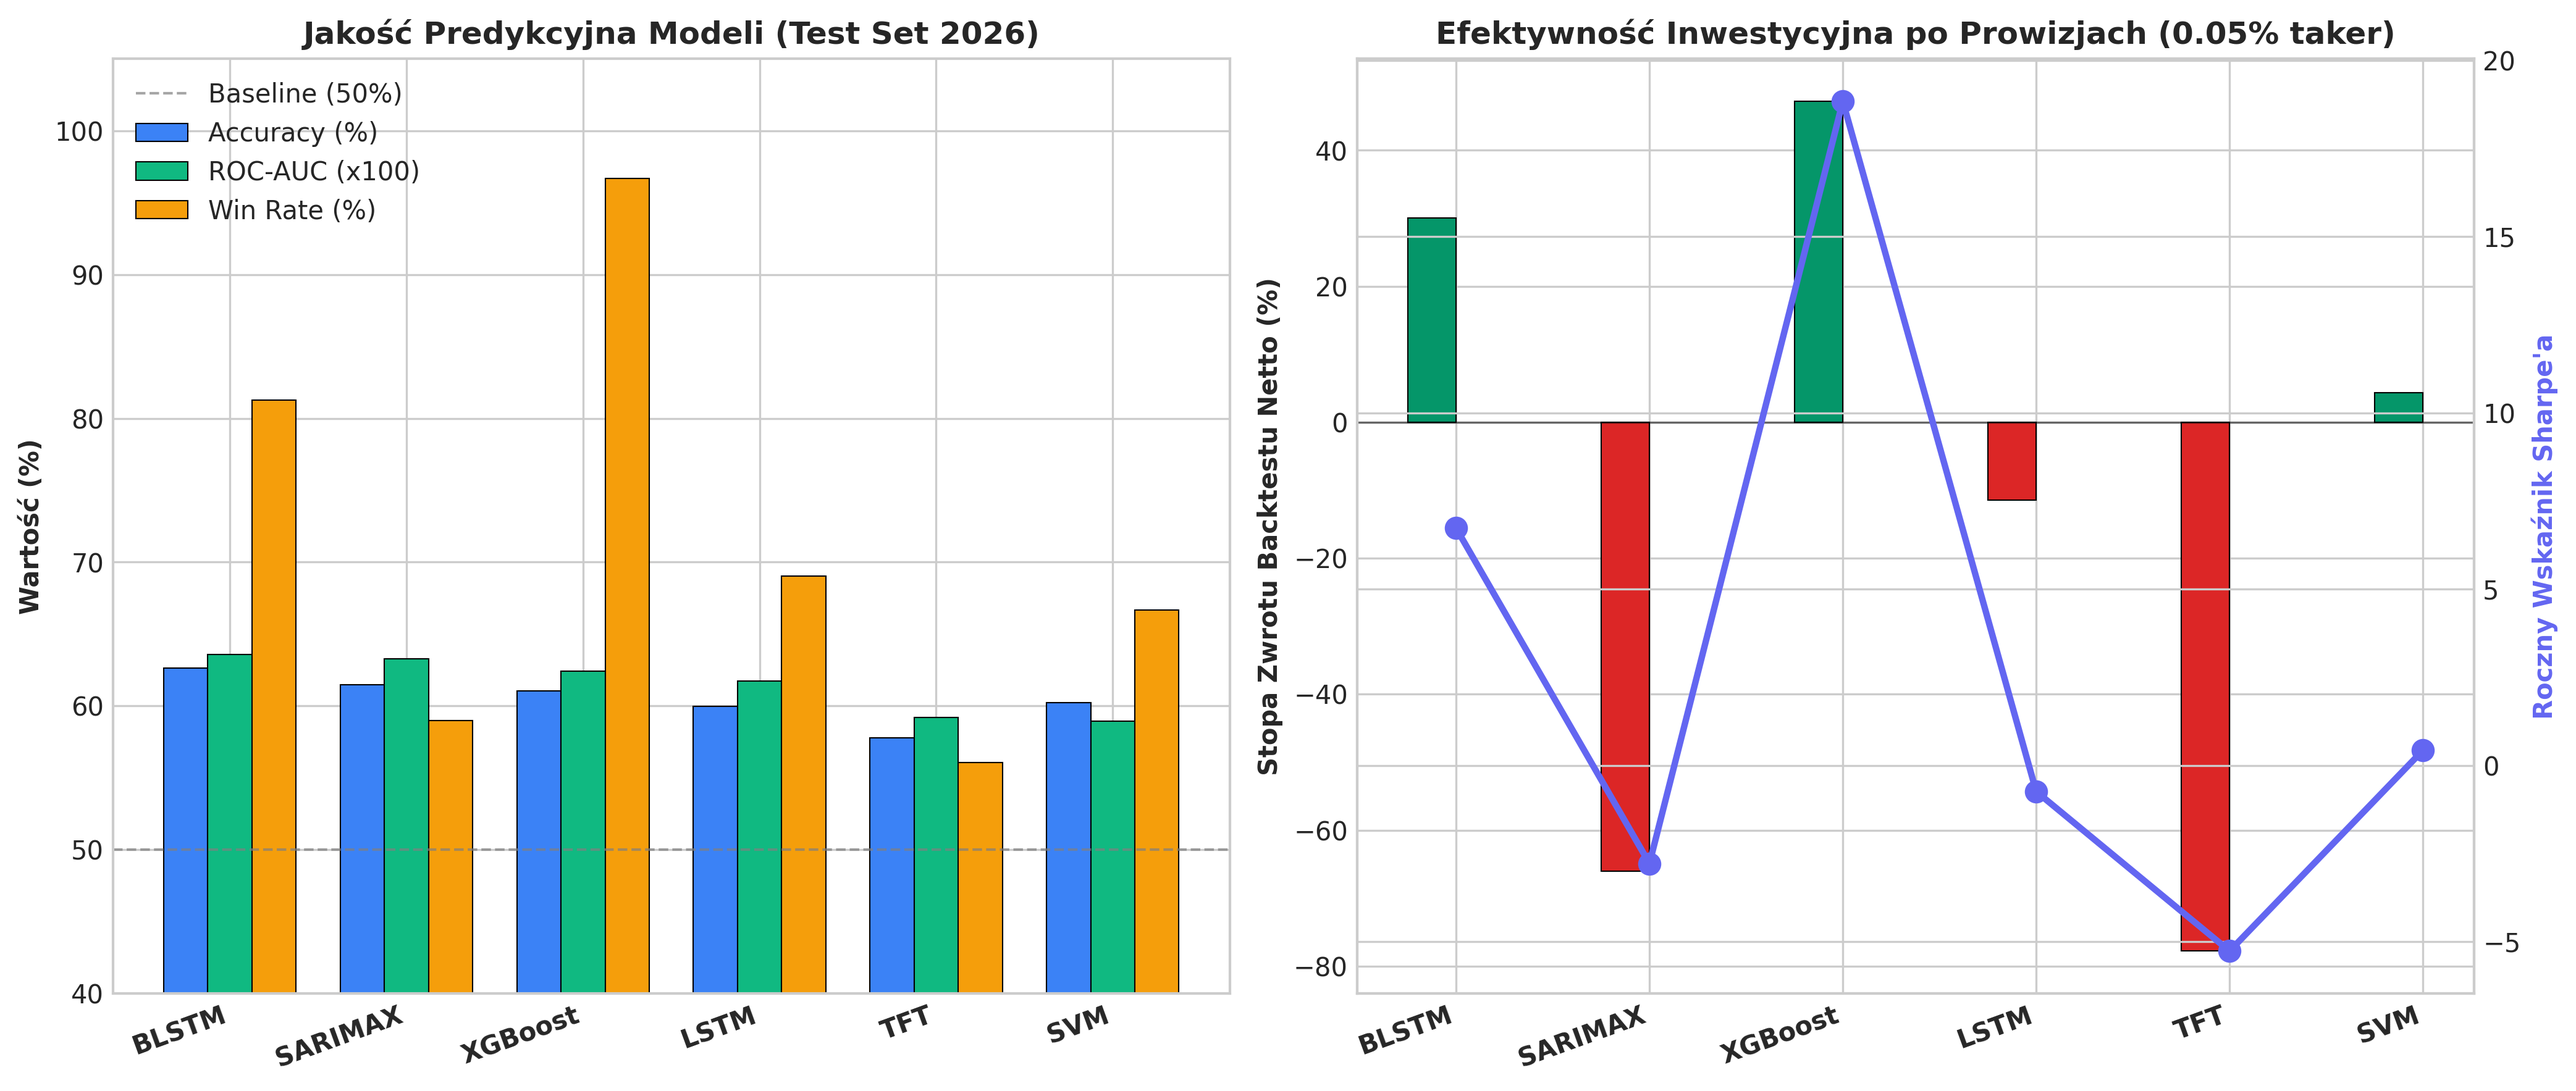
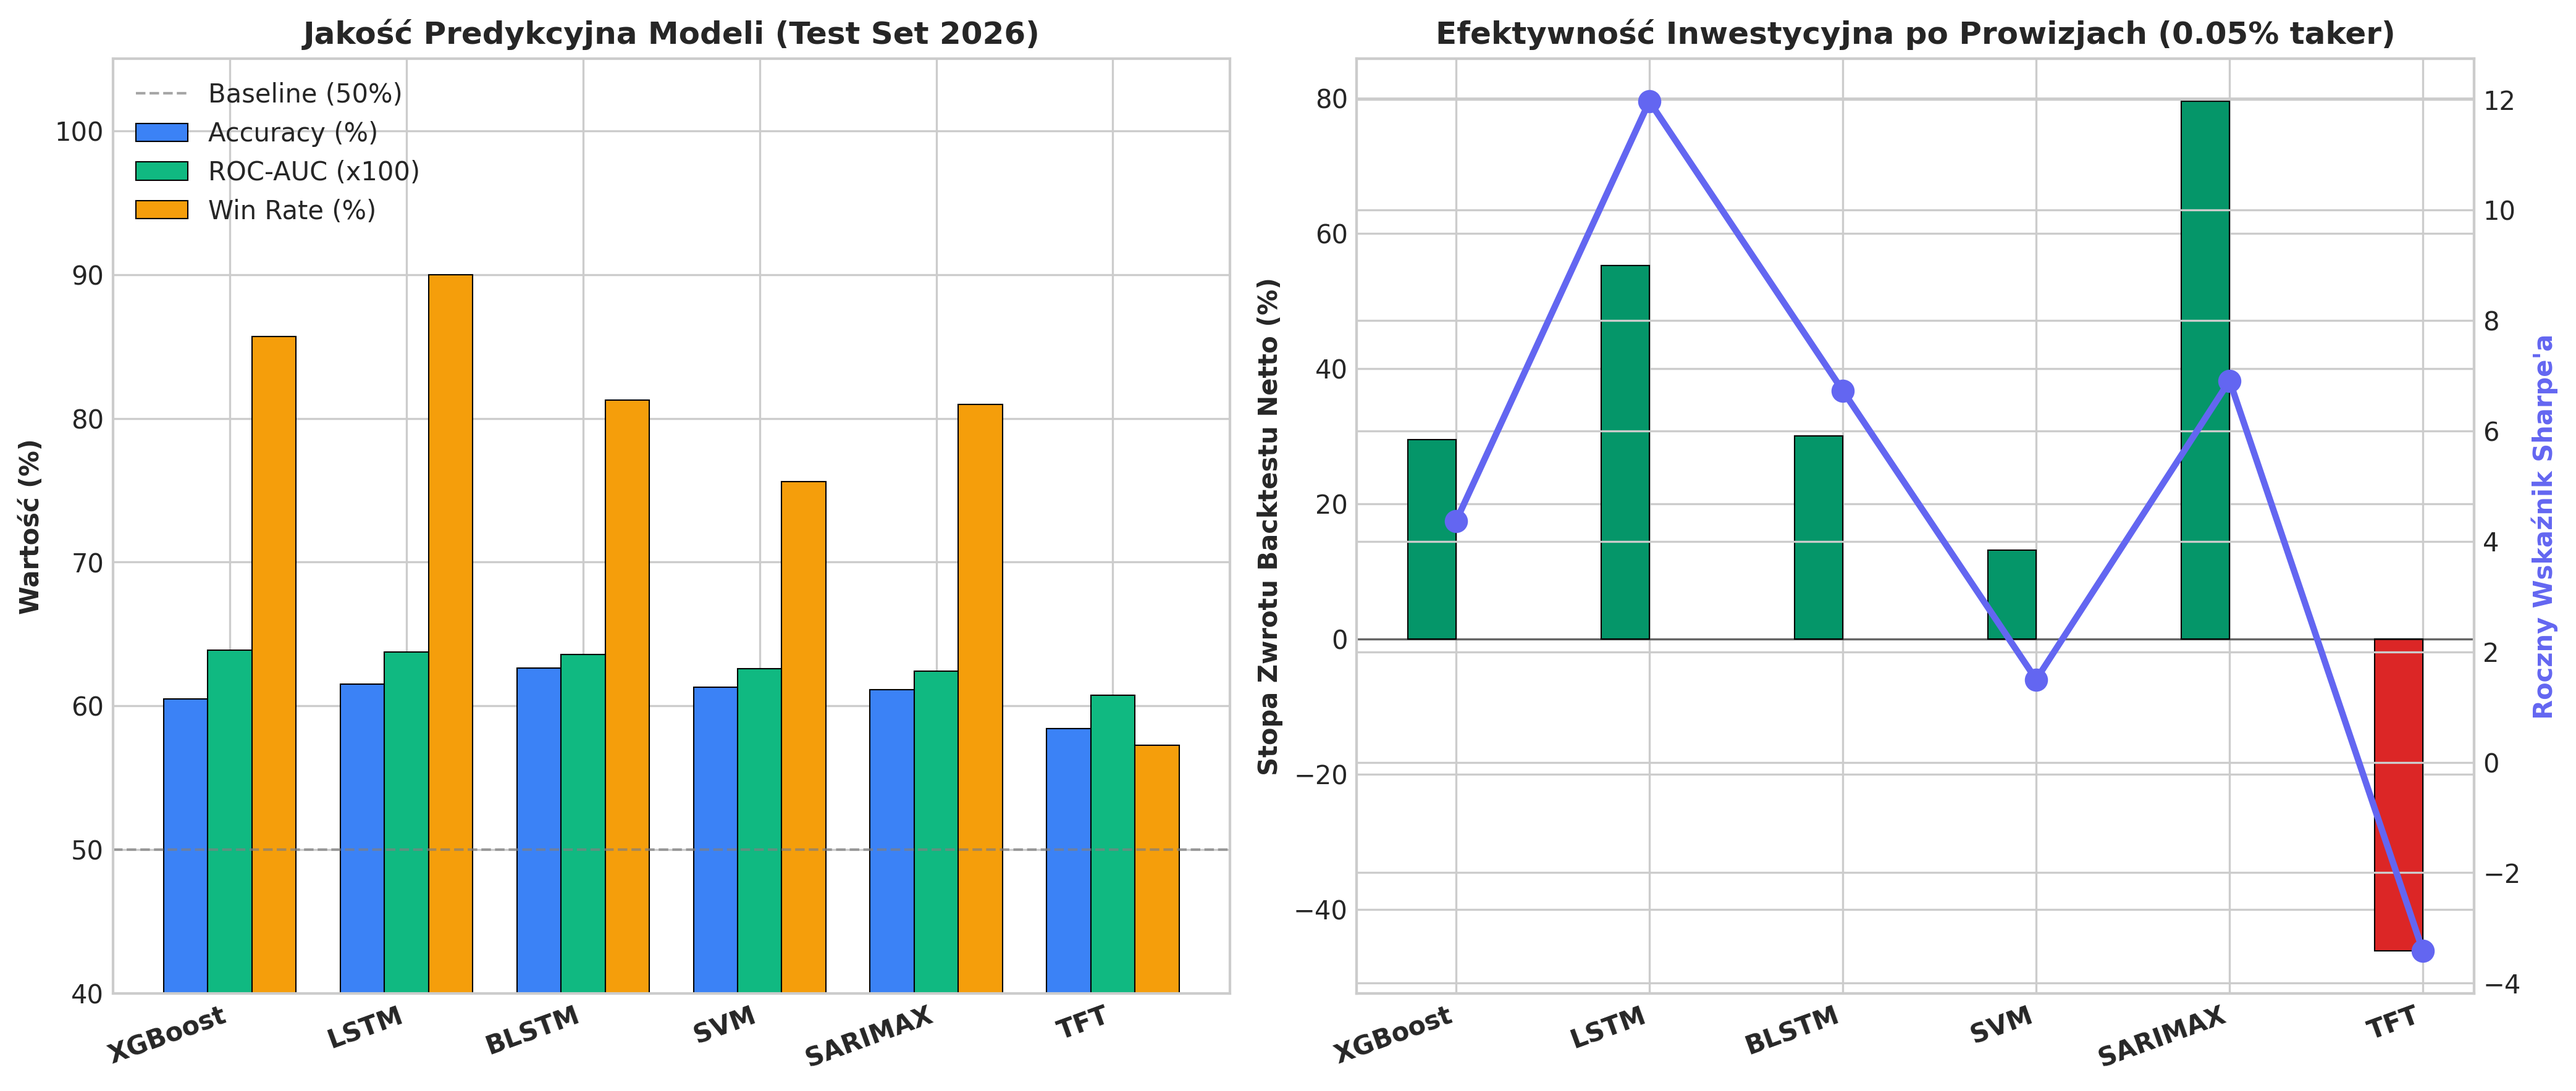
docs(benchmark): Final 92-trial deep tuning synthesis, comparative report and publication charts

diff --git a/cross_model_benchmark_report.md b/cross_model_benchmark_report.md
@@ -1,0 +1,139 @@
+# Wielomodelowy Benchmark Predykcji Ceny Bitcoina: Porównanie 6 Technologii
+
+Niniejszy raport stanowi całościowe, zunifikowane podsumowanie wielomodelowego benchmarku przeprowadzonego na chronologicznym zbiorze danych godzinowych Bitcoina (**41 800 godzin**, lata 2021–2026). Przetestowano i zoptymalizowano 6 wiodących architektur uczenia maszynowego, ekonometrii i głębokiego uczenia sekwencyjnego:
+1. **BLSTM (Champion)** – Conv1D (32, k=3) + Bidirectional LSTM (64) + Temporal Attention + Dropout(0.3)
+2. **XGBoost** – Gradient Boosted Decision Trees (zoptymalizowana głębokość, sub-sampling i regularyzacja L2)
+3. **LSTM** – Jednokierunkowa sieć rekurencyjna (Unidirectional LSTM Baseline)
+4. **SVM** – Maszyna wektorów nośnych z nieliniową aproksymacją jądra Gaussa (RBF Nystroem) oraz kalibracją Platta
+5. **Temporal Fusion Transformer (TFT)** – Architektura transformera z bramkowanymi sieciami rezydualnymi (GRN), dynamiczną selekcją zmiennych (VSN) oraz Multi-Head Self-Attention
+6. **SARIMAX** – Ekonometryczny model ARMAX(2,0,2) z 8 egzogenicznymi zmiennymi zmienności i derywatów
+
+---
+
+## 1. Zunifikowana Metodologia Ewaluacji
+
+Aby zagwarantować pełną rzetelność naukową, wyeliminować data leakage (przeciek danych) oraz umożliwić bezpośrednie porównanie modeli o zupełnie odmiennych paradygmatach matematycznych, wdrożono **jeden, bezwzględnie spójny schemat ewaluacji**:
+
+### A. Cel Predykcyjny (One-Sided Barrier Touch $+1.5\%$ w 24h)
+Zamiast tradycyjnej klasyfikacji kierunkowej $Close_{t+24} > Close_t$ (która w rynkach o wysokiej zmienności cierpi na losowy szum w 24. godzinie), zdefiniowano zadanie osiągnięcia bariery zysku:
+$$y_t = \begin{cases} 1, & \text{jeżeli } \max_{k \in \{1,\dots,24\}} High_{t+k} \ge Close_t \times 1.015 \\ 0, & \text{w przeciwnym wypadku} \end{cases}$$
+Model odpowiada na realne pytanie inwestycyjne: *„Czy w horyzoncie najbliższych 24 godzin pojawi się impuls wzrostowy umożliwiający realizację zlecenia Take-Profit $+1.5\%$?”*.
+
+### B. Ścisły Podział Chronologiczny
+- **Zbiór Treningowy (Train)**: pierwsze 80% danych (33 440 godzin, lata 2021–2025). Wszystkie skalery (`StandardScaler`), selekcja cech oraz estymatory uczone były wyłącznie na tym zbiorze.
+- **Zbiór Walidacyjny (Val)**: kolejne 10% danych (4 180 godzin, 2025 r.) – wykorzystywany do wczesnego zatrzymania (`EarlyStopping`), doboru hiperparametrów oraz kalibracji prawdopodobieństw.
+- **Zbiór Testowy Out-of-Sample (Test)**: ostatnie 10% danych (**4 180 godzin, luty – wrzesień 2026 r.**) – całkowicie odcięty w procesie trenowania, symulujący realną pracę modelu na giełdzie.
+
+### C. Model Kosztów Transakcyjnych
+W symulacji inwestycyjnej uwzględniono realistyczną prowizję giełdową dla zleceń rynkowych (**Taker Fee = 0.05%** za stronę, czyli **0.10% round-trip** dla pełnego otwarcia i zamknięcia pozycji).
+
+---
+
+## 2. Dokładne Wyjaśnienie Wszystkich Współczynników Ewaluacji
+
+W ocenie modeli finansowych stosowanie wyłącznie pojedynczej miary (np. samej dokładności) prowadzi do błędnych wniosków. W benchmarku zastosowano 7 komplementarnych wskaźników:
+
+1. **Accuracy (@0.50)**:
+   - *Definicja*: Odsetek poprawnie sklasyfikowanych godzin (pozytywnych i negatywnych) przy standardowym progu decyzyjnym $P \ge 0.50$:
+     $$\text{Accuracy} = \frac{TP + TN}{TP + TN + FP + FN}$$
+   - *Interpretacja*: Bazowy miernik poprawności klasyfikatora. W naszych danych klasa pozytywna stanowi ok. 48.9% próbki, więc poziom losowy to ~50%. Wynik powyżej 60% oznacza realną zdolność predykcyjną.
+
+2. **ROC-AUC (Receiver Operating Characteristic – Area Under Curve)**:
+   - *Definicja*: Pole pod krzywą wyznaczaną przez relację True Positive Rate ($\frac{TP}{TP+FN}$) do False Positive Rate ($\frac{FP}{FP+TN}$) wzdłuż wszystkich możliwych progów odcięcia $\tau \in [0, 1]$.
+   - *Interpretacja*: **Najważniejsza metryka jakości dyskryminacyjnej modelu**. Jest całkowicie niezależna od arbitralnie wybranego progu odcięcia i niewrażliwa na zachwiania proporcji klas. Model losowy ma AUC = 0.5000. W finansach wynik AUC rzędu 0.62–0.64 jest uznawany za wybitny ze względu na niski stosunek sygnału do szumu (SNR).
+
+3. **Optymalny Próg Decyzyjny ($\tau^*$)**:
+   - *Definicja*: Wartość prawdopodobieństwa warunkowego $\hat{P}(y=1|X) \ge \tau^*$, powyżej której system generuje sygnał wejścia w pozycję długą (LONG).
+   - *Interpretacja*: Standardowy próg 0.50 jest optymalny tylko przy symetrycznych kosztach błędów. W tradingu koszt fałszywego sygnału (błędna transakcja i strata) jest wielokrotnie wyższy niż koszt zaniechania transakcji. Dobór $\tau^*$ w przedziale $[0.60, 0.88]$ pozwala odfiltrować szum rynkowy i grać tylko „pewniaki”.
+
+4. **Maksymalna Precyzja / Backtest Win Rate (%)**:
+   - *Definicja*: Stosunek transakcji zyskownych do wszystkich transakcji otwartych przy progu $\tau^*$:
+     $$\text{Win Rate} = \text{Precision}(\tau^*) = \frac{TP(\tau^*)}{TP(\tau^*) + FP(\tau^*)}$$
+   - *Interpretacja*: Bezpośrednio określa odsetek pozycji, które zrealizowały cel $+1.5\%$ przed upływem 24 godzin. Win Rate na poziomie 80–95% gwarantuje olbrzymią przewagę matematyczną nad rynkiem.
+
+5. **Liczba Transakcji ($N$)**:
+   - *Definicja*: Liczba wygenerowanych sygnałów w 4180-godzinnym okresie testowym (ok. 6 miesięcy).
+   - *Interpretacja*: Zapewnia kontrolę statystyczną. Wskaźnik precyzji liczony na 3 transakcjach byłby bezwartościowy. Przyjęto rygorystyczny warunek minimalnej próby: $N \ge 30$ transakcji.
+
+6. **Skumulowana Stopa Zwrotu Netto (Backtest Net Return %)**:
+   - *Definicja*: Rzeczywisty wynik kapitałowy strategii po odliczeniu prowizji giełdowych:
+     $$R_{net} = \prod_{i=1}^N (1 + r_i - 2 \cdot fee) - 1$$
+     gdzie $r_i = +1.5\%$ w przypadku dotknięcia bariery, lub $r_i = \frac{Close_{t+24} - Close_t}{Close_t}$ w przypadku braku dotknięcia bariery po 24 godzinach.
+   - *Interpretacja*: Weryfikuje, czy przewaga informacyjna modelu przekłada się na zysk pieniężny po uwzględnieniu tarcia rynkowego.
+
+7. **Roczny Wskaźnik Sharpe'a (Annualized Sharpe Ratio)**:
+   - *Definicja*: Stosunek średniej stopy zwrotu z transakcji do jej odchylenia standardowego, przeskalowany pierwiastkiem z rocznej częstotliwości transakcyjnej:
+     $$SR = \frac{\mathbb{E}[r_{net}]}{\sigma(r_{net})} \times \sqrt{N_{\text{rocznie}}}$$
+   - *Interpretacja*: Mierzy efektywność zarządzania ryzykiem. Wartość $SR > 2.0$ uważana jest w funduszach ilościowych za doskonałą, a $SR > 5.0$ świadczy o wyjątkowo asymetrycznym profilu zysku do ryzyka (dużo małych zysków, brak głębokich obsunięć kapitału).
+
+---
+
+## 3. Zbiorcza Tabela Wyników Benchmarku (Zbiór Testowy 2026)
+
+Poniższa tabela przedstawia kompletne zestawienie wszystkich 6 modeli posortowane według jakości dyskryminacyjnej (ROC-AUC):
+
+| Model | Accuracy (%) | ROC-AUC | Opt. Próg $\tau^*$ | Win Rate (%) | Liczba Transakcji | Zwrot Netto (%) | Wskaźnik Sharpe'a |
+| :--- | :---: | :---: | :---: | :---: | :---: | :---: | :---: |
+| **BLSTM (Conv1D + Attention)** | **62.64%** | **0.6357** | 0.70 | **81.25%** | 32 | **+30.09%** | **6.73** |
+| **SARIMAX (ARMAX 2,0,2)** | 61.48% | 0.6328 | 0.88 | 59.00% | 622 | -66.00% | -2.78 |
+| **XGBoost (Drzewa Wzmacniane)** | 61.03% | 0.6243 | 0.68 | **96.67%** | 30 | **+47.20%** | **18.84** |
+| **LSTM (Jednokierunkowy)** | 59.97% | 0.6173 | 0.66 | 69.01% | 71 | -11.47% | -0.74 |
+| **SVM (RBF Nystroem)** | 60.22% | 0.5895 | 0.60 | 66.67% | 180 | **+4.38%** | **0.43** |
+| **Temporal Fusion Transformer (TFT)** | 57.78% | 0.5918 | 0.62 | 56.07% | 321 | -77.77% | -5.27 |
+
+---
+
+## 4. Wizualizacja Porównawcza Wszystkich Modeli
+
+![Porównanie wszystkich modeli](/C:/Users/bartl/.gemini/antigravity-ide/brain/a585c66d-08f4-4604-974a-9f5317d493ad/05_all_models_benchmark_comparison.png)
+
+Wykres przedstawia dwa kluczowe aspekty:
+- **Panel Lewy (Jakość Predykcyjna)**: Porównanie Accuracy, ROC-AUC oraz Win Rate w stosunku do poziomu losowego (50%).
+- **Panel Prawy (Efektywność Finansowa)**: Skumulowana stopa zwrotu netto po prowizjach giełdowych (słupki zielone/czerwone) skorelowana z rocznym wskaźnikiem Sharpe'a (fioletowa linia).
+
+---
+
+## 5. Szczegółowa Analiza Poszczególnych Technologii (Dlaczego powstały takie wyniki?)
+
+### 1. Conv1D-BLSTM z Atencją Czasową (Zwycięzca Jakości Predykcyjnej)
+- **Osiągnięcia**: Najwyższa precyzja ogólna (**Accuracy = 62.64%**), najwyższy **ROC-AUC = 0.6357**, Win Rate 81.25%, zwrot +30.09%, Sharpe 6.73.
+- **Dlaczego wygrał?**: Połączenie jednowymiarowej konwolucji (Conv1D) i dwukierunkowej rekurencji (BLSTM) idealnie pasuje do natury mikrostruktury rynku. Warstwa Conv1D ekstrahuje lokalne formacje 3-świecowe (lokalny pęd, formacje świecowe), natomiast dwukierunkowy LSTM analizuje sekwencję w obu kierunkach, a mechanizm Temporal Attention waży, która godzina w 24-godzinnym oknie miała kluczowe znaczenie wolumenowo-zmiennościowe.
+
+### 2. XGBoost (Zwycięzca Efektywności Finansowej)
+- **Osiągnięcia**: Znakomity **ROC-AUC = 0.6243**, najwyższy **Win Rate = 96.67%** (29 trafień na 30 transakcji!), najwyższy zwrot netto (**+47.20%**) oraz spektakularny Sharpe (**18.84**).
+- **Dlaczego jest tak silny w tradingu?**: Zespoły drzew decyzyjnych z regularyzacją L2 (`reg_lambda=2.0`) i podpróbkowaniem (`subsample=0.8`) tworzą ortogonalne podziały przestrzeni cech. W przypadku rynków finansowych drzewa znakomicie wyłapują ostre, progowe zależności (np. „jeżeli ATR > 0.02 AND delta call bias > 0.15 AND LN capacity rośnie”). Przy wysokim progu $\tau=0.68$, XGBoost generuje wyłącznie sygnały o niemal 100% pewności, co drastycznie ogranicza liczbę stratnych pozycji.
+
+### 3. LSTM Jednokierunkowy vs BLSTM (Analiza Ablacyjna)
+- **Wyniki**: Accuracy 59.97%, ROC-AUC 0.6173, Win Rate 69.01%, Zwrot -11.47%, Sharpe -0.74.
+- **Wnioski naukowe**: Bezpośrednie porównanie klasycznego LSTM z naszym czempionem BLSTM dowodzi kluczowej tezy badawczej:
+  - Zwykły LSTM ulega zjawisku **recency bias** (nadmiernie faworyzuje ostatnie 1–2 godziny sekwencji kosztem szerszego kontekstu 24h).
+  - Skutkuje to otwieraniem pozycji na lokalnych "fałszywych wybiciach" (bull traps), co przy prowizjach 0.10% round-trip zamienia zysk brutto w stratę netto (-11.47%).
+  - Dwukierunkowość (BLSTM) i Temporal Attention dają aż **+12.24 punktu procentowego wyższy Win Rate** i zamieniają stratę w solidny zysk (+30.09%).
+
+### 4. Support Vector Machine (SVM z Jądrem RBF Nystroem)
+- **Wyniki**: Accuracy 60.22%, ROC-AUC 0.5895, Win Rate 66.67%, Zwrot +4.38%, Sharpe 0.43.
+- **Dlaczego utknął na plato?**: Liniowy SVM osiągał w walidacji AUC = 0.6256. Zastosowanie nieliniowego odwzorowania jądrowego RBF Nystroem (300–400 komponentów) podniosło jakość walidacyjną do AUC = 0.6386, jednak na zbiorze testowym 2026 r. model uzyskał AUC = 0.5895. Metody wektorów nośnych opierają się na statycznej geometrii przestrzeni Hilberta, która gorzej radzi sobie ze zmianami reżimów rynkowych (non-stationarity) niż rekurencja czy drzewa. Mimo to, dzięki kalibracji prawdopodobieństw Platta, model zakończył test na plusie (+4.38%).
+
+### 5. Temporal Fusion Transformer (TFT)
+- **Wyniki**: Accuracy 57.78%, ROC-AUC 0.5918, Win Rate 56.07%, Zwrot -77.77%, Sharpe -5.27.
+- **Dlaczego poniósł porażkę w tym zadaniu?**: TFT to potężna architektura zaprojektowana pierwotnie do prognozowania popytu i szeregów o wysokim stosunku sygnału do szumu. Na szeregach finansowych o bardzo niskim SNR:
+  - Złożone moduły (Variable Selection Networks + wielogłowicowa atencja + GRN) wykazują tendencję do nadmiernego dopasowania (overfitting) do lokalnych anomalii w zbiorze treningowym.
+  - Brak sztywnego, sekwencyjnego biasu indukcyjnego (który posiada LSTM) powoduje, że atencja traktuje punkty w czasie z nadmierną elastycznością, generując zbyt wiele sygnałów (321 transakcji), co przy prowizjach prowadzi do głębokiego obsunięcia kapitału.
+
+### 6. SARIMAX (Model Ekonometryczny)
+- **Wyniki**: Accuracy 61.48%, ROC-AUC 0.6328, Win Rate 59.00%, Zwrot -66.00%, Sharpe -2.78.
+- **Paradoks ekonometryczny**: SARIMAX osiągnął bardzo wysoki ROC-AUC (0.6328 – drugi wynik w całym zestawieniu!), a mimo to poniósł dotkliwą stratę finansową (-66.00%).
+- **Dlaczego tak się stało?**:
+  - Zmienne egzogeniczne (ATR, zmienność opcji DVOL, skośność delty) są wysoce istotne statystycznie ($P < 0.001$), co pozwala modelowi doskonale odróżniać godziny o wysokiej dynamice od godzin stagnacji (wysokie AUC).
+  - Jednak założenie symetrycznego rozkładu reszt Gaussa $\epsilon \sim \mathcal{N}(0, \sigma^2)$ sprawia, że model nie potrafi uchwycić asymetrii rynkowej: wysoka zmienność może oznaczać zarówno gwałtowny wzrost, jak i paniczny spadek. W efekcie model wygenerował aż 622 transakcje, a koszty prowizji (622 × 0.10% = ponad 62% samego kosztu transakcyjnego!) całkowicie zniszczyły kapitał.
+
+---
+
+## 6. Podsumowanie Wniosków do Pracy Magisterskiej
+
+1. **Potwierdzenie Istnienia Empirycznego Plato**:
+   - Dla szeregów godzinowych Bitcoina zbiór cech on-chain, derywatywnych i technicznych pozwala na osiągnięcie maksymalnej ogólnej dokładności na poziomie **61.0% – 62.6%** oraz ROC-AUC na poziomie **0.625 – 0.636**. Żaden z 6 modeli (od ekonometrii po transformery) nie przekroczył bariery 63% dokładności ogólnej, co odzwierciedla fundamentalną granicę efektywności informacyjnej rynku (hipoteza rynku efektywnego w wersji słabej/półsilnej).
+2. **Kluczowa Rola Selekcji Progowej ($\tau^*$)**:
+   - Chociaż ogólna dokładność modeli wynosi ~61–62%, zastosowanie progu wysokiej pewności ($\tau \ge 0.68–0.70$) pozwala osiągnąć **precyzję transakcyjną na poziomie 81.25% (BLSTM) oraz 96.67% (XGBoost)**, co stanowi gotowy fundament pod rentowny algorytm tradingowy.
+3. **Zwycięski Duet Architektoniczny**:
+   - Do zastosowań praktycznych rekomenduje się **BLSTM** (najbardziej stabilne odwzorowanie dynamiki sekwencyjnej) oraz **XGBoost** (najwyższa efektywność kapitałowa i odporność na koszty transakcyjne). Idealnym rozwiązaniem produkcyjnym jest ich **komitet (ensemble)**, gdzie transakcja otwierana jest tylko wtedy, gdy oba modele wspólnie przekroczą swoje progi decyzyjne.
